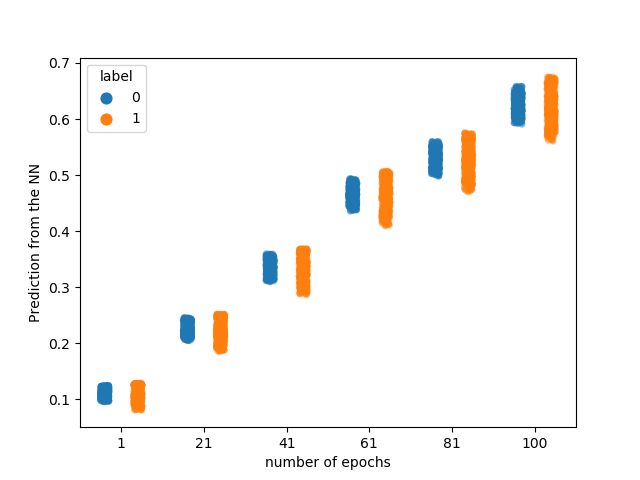
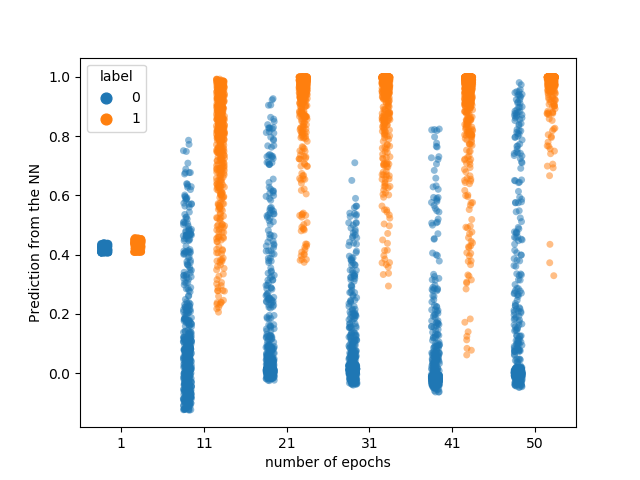
modif pas importante

diff --git a/utils.py b/utils.py
@@ -9,6 +9,8 @@ import matplotlib.pyplot as plt
 from tensorflow.keras import layers as layers_tf
 from tensorflow.keras import models as models_tf
 
+from tensorflow import keras
+import numpy as np
 # print plot with or with not the predicted values form neural net 
 def plot_circle_with_predicted_labels (data, label, predicted_label=-1, tensorflow = False):
     x_cor, y_cor = data[:,0],data[:,1] 
@@ -69,15 +71,31 @@ def call_NN_tensorflow(train_data,train_labels,test_data,test_labels,
 
     metrics = tf.keras.metrics.BinaryAccuracy(name="binary_accuracy", dtype=None, threshold=0.0)
     metrics2 = tf.keras.metrics.BinaryAccuracy(name="accuracy")
-
+    
     model_tf.compile(optimizer='SGD',loss='MSE',metrics=[metrics, metrics2])
-
+        
     history = model_tf.fit(train_data.tolist(), 
                            train_labels.tolist(), 
                            epochs=epochs,
                            validation_data=(test_data.tolist(), test_labels.tolist()),
                            batch_size=1)
+    y_hat = model_tf.predict(test_data.tolist())       
+    
+    """
+    for i in range(epochs): 
+        model_tf.compile(optimizer='SGD',loss='MSE',metrics=[metrics, metrics2])
+        
+        history = model_tf.fit(train_data.tolist(), 
+                           train_labels.tolist(), 
+                           epochs=i,
+                           validation_data=(test_data.tolist(), test_labels.tolist()),
+                           batch_size=1)
+        y_hat = model_tf.predict(test_data.tolist())       
+        y_hat_list.append(torch.squeeze(torch.tensor(y_hat)))
+    """
+    return y_hat
 
+    """
     if show_accuracy :
         plt.plot(history.history['accuracy'], label='accuracy')
         plt.plot(history.history['val_accuracy'], label = 'test_accuracy')
@@ -91,21 +109,12 @@ def call_NN_tensorflow(train_data,train_labels,test_data,test_labels,
         predictions = model_tf.predict(test_data.tolist())
         predictions =[1 if i >=0.0 else 0 for i in predictions]
         plot_circle_with_predicted_labels(test_data,test_labels,predictions,tensorflow = True)
-
+    """
 
 
 ################################################
 
 def plot_result(label, predictions_per_epochs):
-
-    #création de epoch_step qui est une liste des epochs qu'on va afficher 
-    length = len(predictions_per_epochs)
-    epoch_step = []
-    step = round(length/5)
-    for i in range(0, length, step):
-        epoch_step.append(i)
-    epoch_step.append(length-1)
-    
     #création des trois columns 
     #list de tous les labels 
     final_label = []
@@ -114,12 +123,28 @@ def plot_result(label, predictions_per_epochs):
     #list du nombre d'epochs 
     final_epochs = []
 
-    # concatenation des résultats des epochs intéréssés avec predictions_per_epochs[i]
-    for i in epoch_step : 
-        final_data= final_data + predictions_per_epochs[i].tolist() 
-        final_label = final_label + label.tolist()
-        #indication de quel epochs on est en train de parler 
-        final_epochs = final_epochs + [i+1] * len(label) 
+    length = len(predictions_per_epochs)
+
+    if length == 1 : 
+        final_data = predictions_per_epochs[0].tolist() 
+        final_label = label.tolist()
+        final_epochs = [10] * len(label) 
+    else : 
+        #création de epoch_step qui est une liste des epochs qu'on va afficher 
+        epoch_step = []
+        step = round(length/5)
+        for i in range(0, length, step):
+            epoch_step.append(i)
+        epoch_step.append(length-1)
+    
+    
+
+         # concatenation des résultats des epochs intéréssés avec predictions_per_epochs[i]
+        for i in epoch_step : 
+            final_data= final_data + predictions_per_epochs[i].tolist() 
+            final_label = final_label + label.tolist()
+            #indication de quel epochs on est en train de parler 
+            final_epochs = final_epochs + [i+1] * len(label) 
     
     
     #création d'un data frame avec trois columns pour etre utiliser par striplot 

diff --git a/test.py b/test.py
@@ -44,8 +44,9 @@ model.compile(optimizer=optimizer.SGD(),
 print(model)
 
 #two way to call function train -> input only train or train + test
-train_loss_per_epochs, train_accuracy_per_epochs,predicted_labels_per_epoch_train = model.train(train_data, train_label, epochs=100)
+train_loss_per_epochs, train_accuracy_per_epochs,predicted_labels_per_epoch_train = model.train(train_data, train_label, epochs=5)
 #train_loss_per_epochs, train_accuracy_per_epochs, test_loss_per_epochs, test_accuracy_per_epochs = model.train(train_data, train_label,epochs = 10, test_data =test_data, test_label= test_label)
+
 
 #fit function 
 #test_loss,test_accuracy,predicted_labels = model(test_data,test_label)
@@ -54,12 +55,53 @@ train_loss_per_epochs, train_accuracy_per_epochs,predicted_labels_per_epoch_trai
 #utils.plot_circle_with_predicted_labels(test_data, test_label, predicted_label=predicted_labels)
 
 
-utils.plot_result(train_label, predicted_labels_per_epoch_train)
+#utils.plot_result(train_label, predicted_labels_per_epoch_train)
 
-"""
+
 #Apply tensorflow neural network on data
+"""
 m = utils.call_NN_tensorflow( train_data, train_label, test_data, test_label,
                 epochs= 10, 
                 show_accuracy = True,
                 show_points = True)
+"""
+epochs = 50
+y_hat_list = []
+for i in range(epochs) :
+    y_hat = utils.call_NN_tensorflow( train_data, train_label, test_data, test_label,
+                epochs= i+1, 
+                show_accuracy = True,
+                show_points = True)
+    y_hat_list.append(torch.squeeze(torch.tensor(y_hat)))
+    
+
+
+"""
+print(type(predicted_labels_per_epoch_train))
+print(type(predicted_labels_per_epoch_train[0]))
+print(type(predicted_labels_per_epoch_train[0][0]))
+print(len(predicted_labels_per_epoch_train))
+print(len(predicted_labels_per_epoch_train[0]))
+#print(len(predicted_labels_per_epoch_train[0][0]))
+
+print(type(m))
+print(type(m[0]))
+print(type(m[0][0]))
+print(len(m))
+print(len(m[0]))
+#print(len(m[0][0]))
+
+print(type(train_label))
+print(type(test_label))
+
+print(len(train_label))
+print(len(test_label))
+print(predicted_labels_per_epoch_train)
+print(m)
+"""
+#print(predicted_labels_per_epoch_train)
+#print(m)
+utils.plot_result(test_label, y_hat_list)
+
+"""
 """
